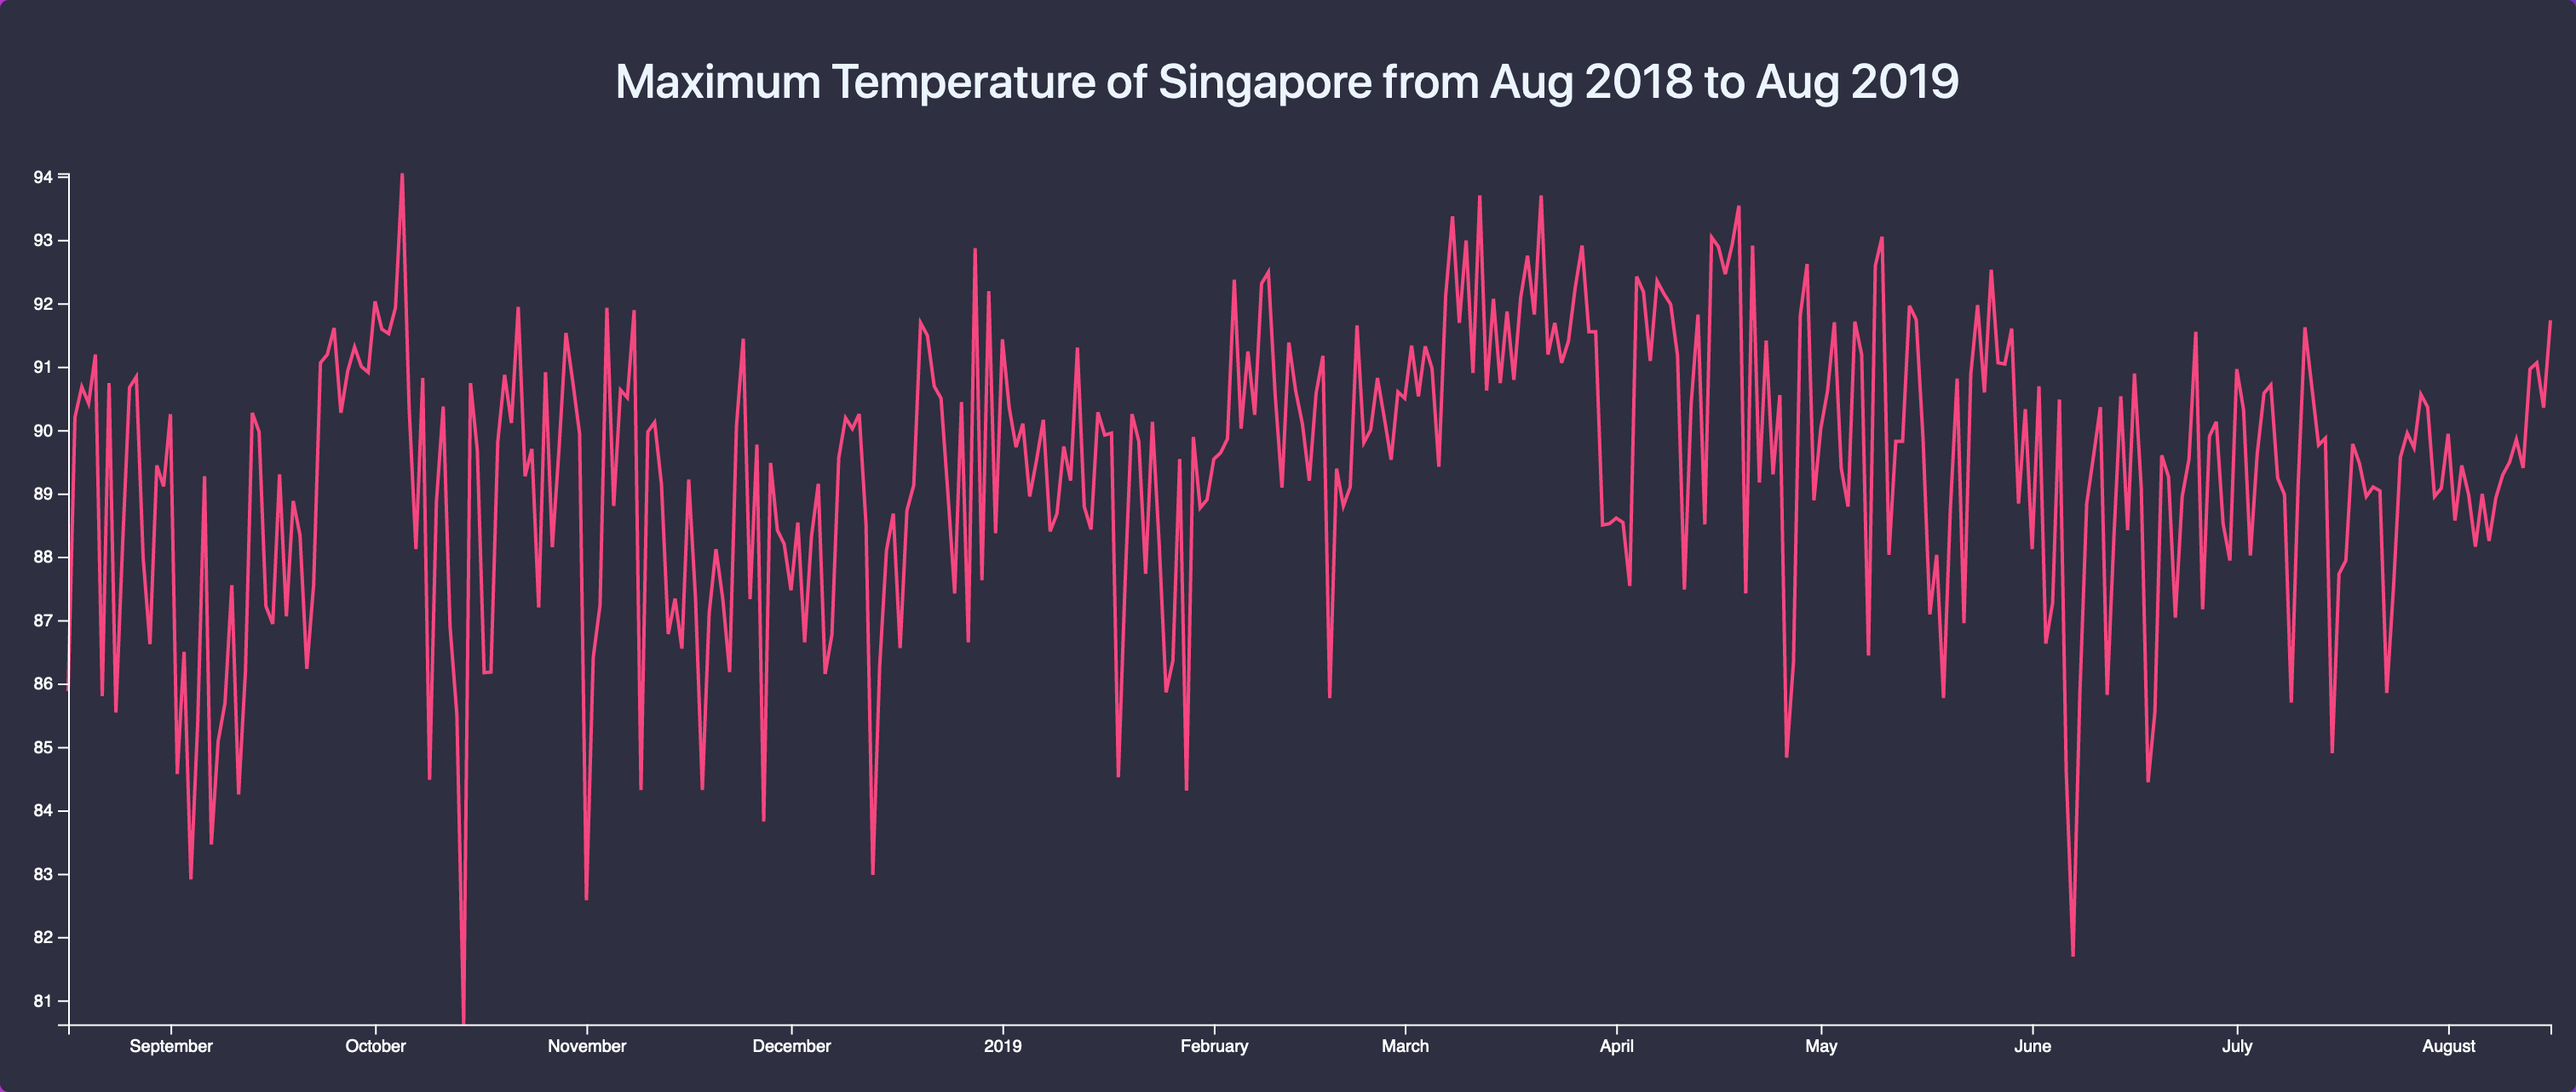
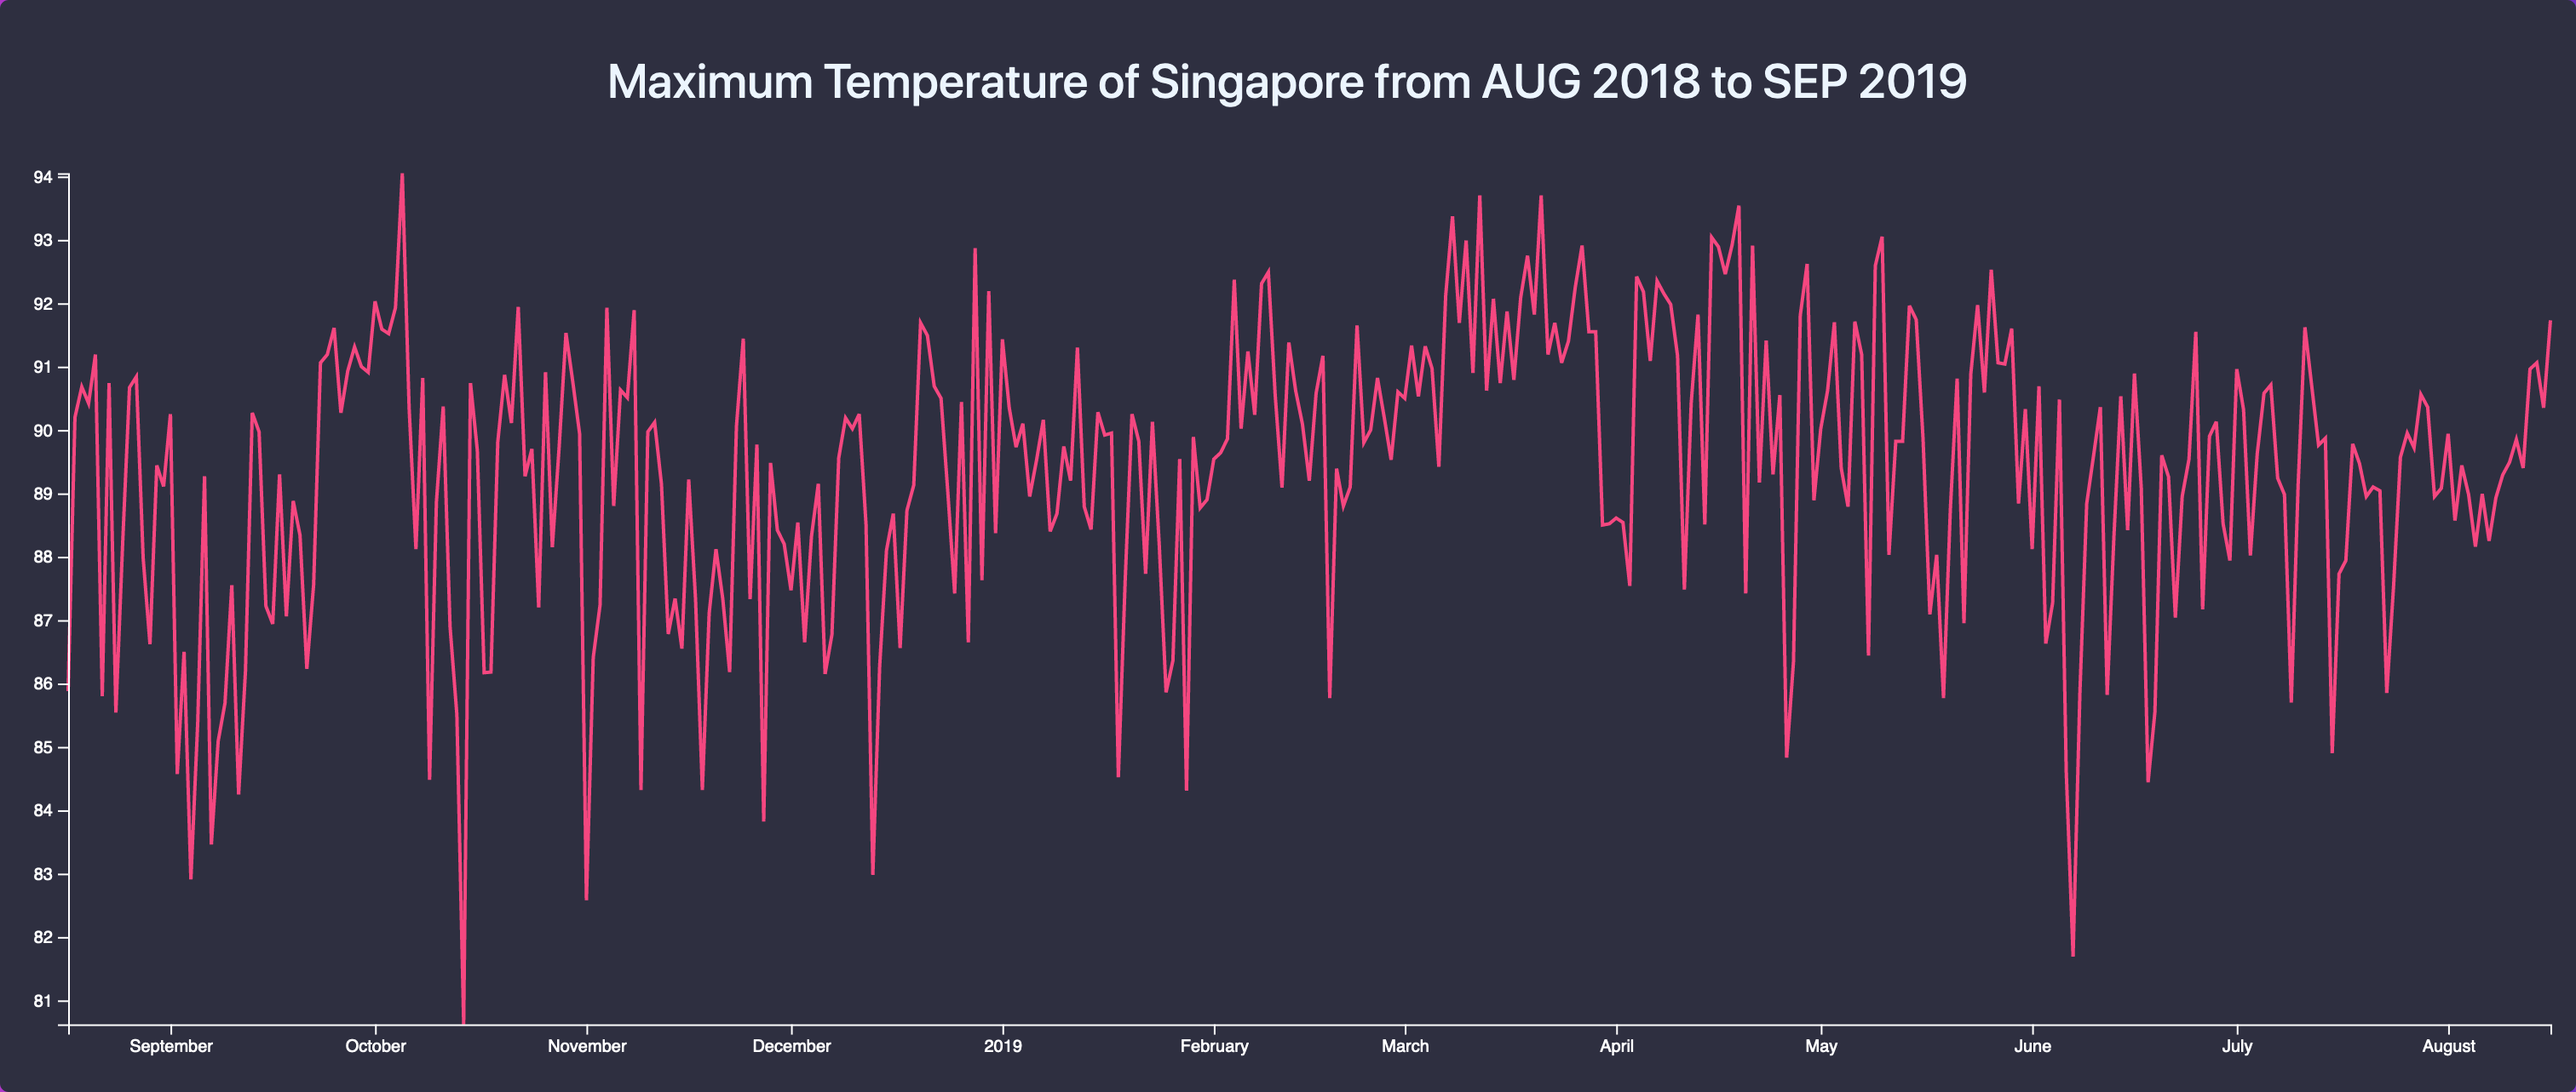
adding correct date for line chart

Changed region(s): [[0.2176, 0.0624, 0.7771, 0.0935]]

diff --git a/src/app/line-chart.js b/src/app/line-chart.js
@@ -26,7 +26,7 @@ export class LineChart {
         const container = d3.select('#wrapper');
     
         const text = container.append('h3')
-            .text('Maximum Temperature of Singapore from Aug 2018 to Aug 2019')
+            .text('Maximum Temperature of Singapore from AUG 2018 to SEP 2019')
             .style('transform', `translate(0px, 30px)`);
     
         const wrapper = d3.select('#wrapper')
